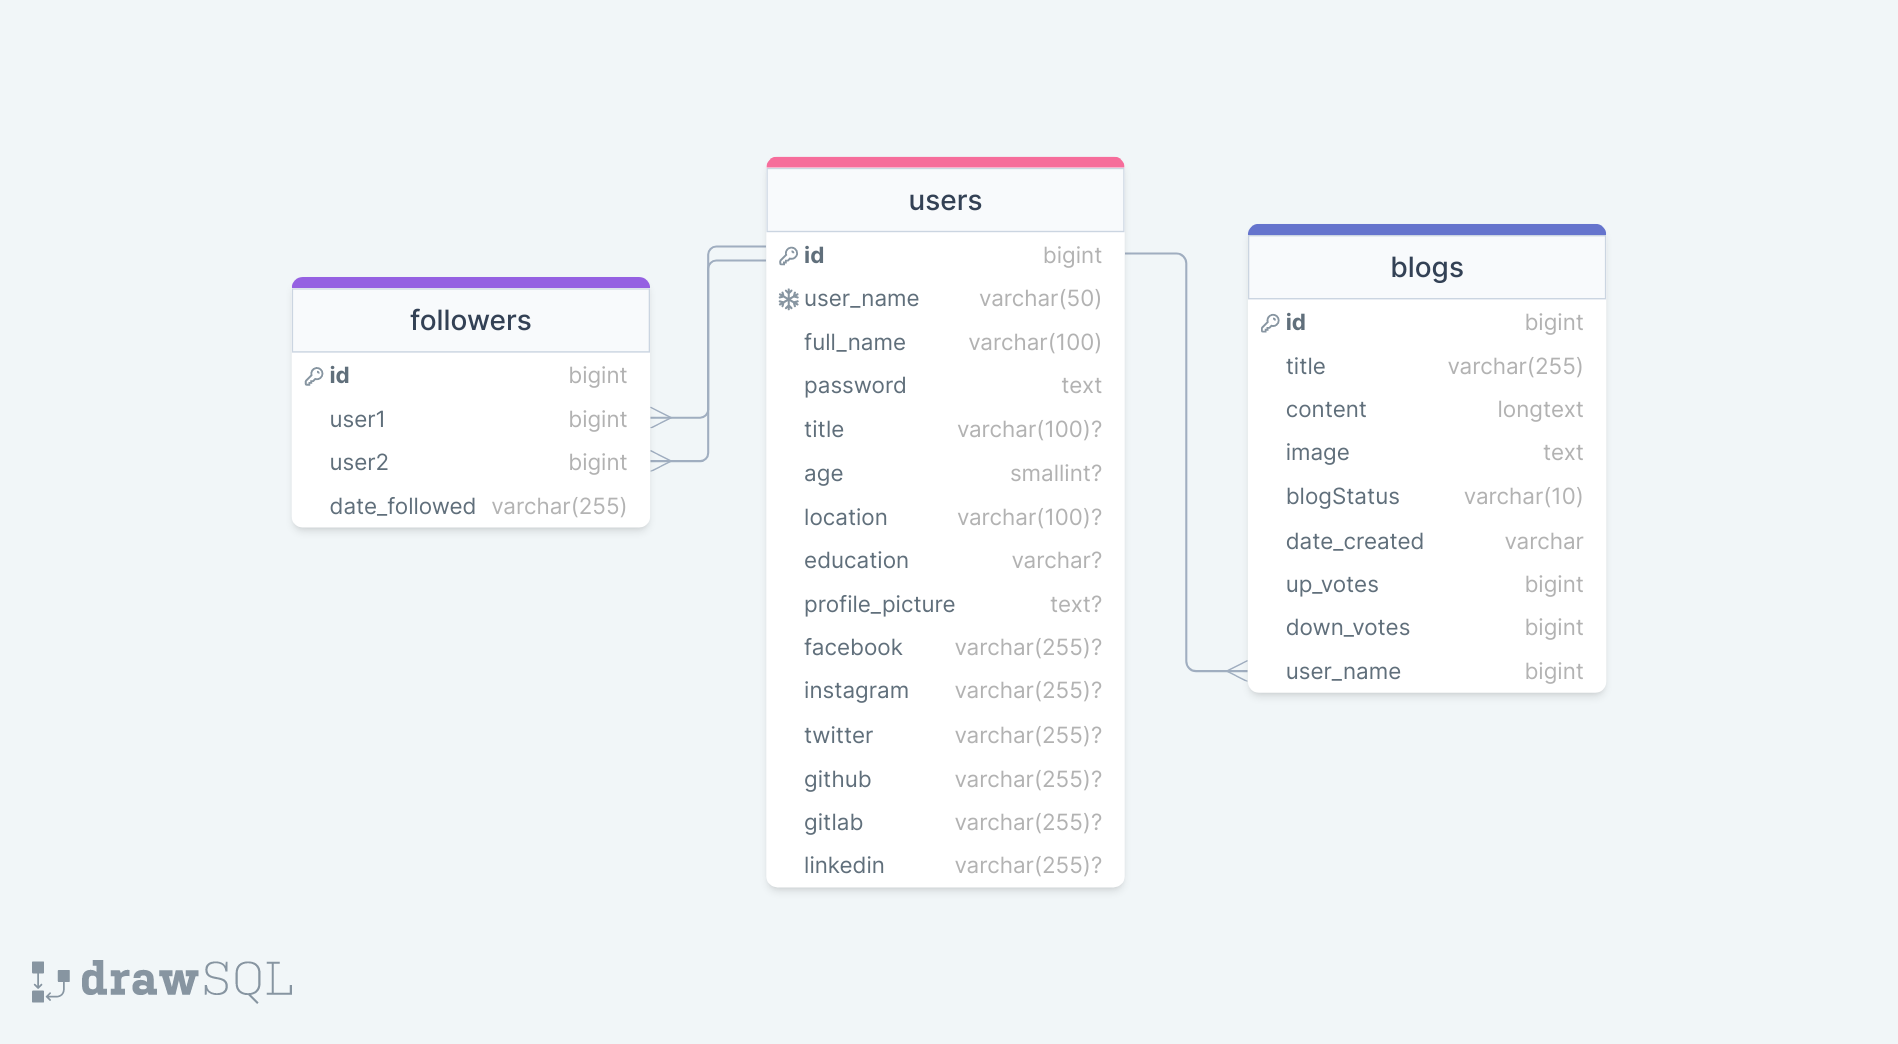
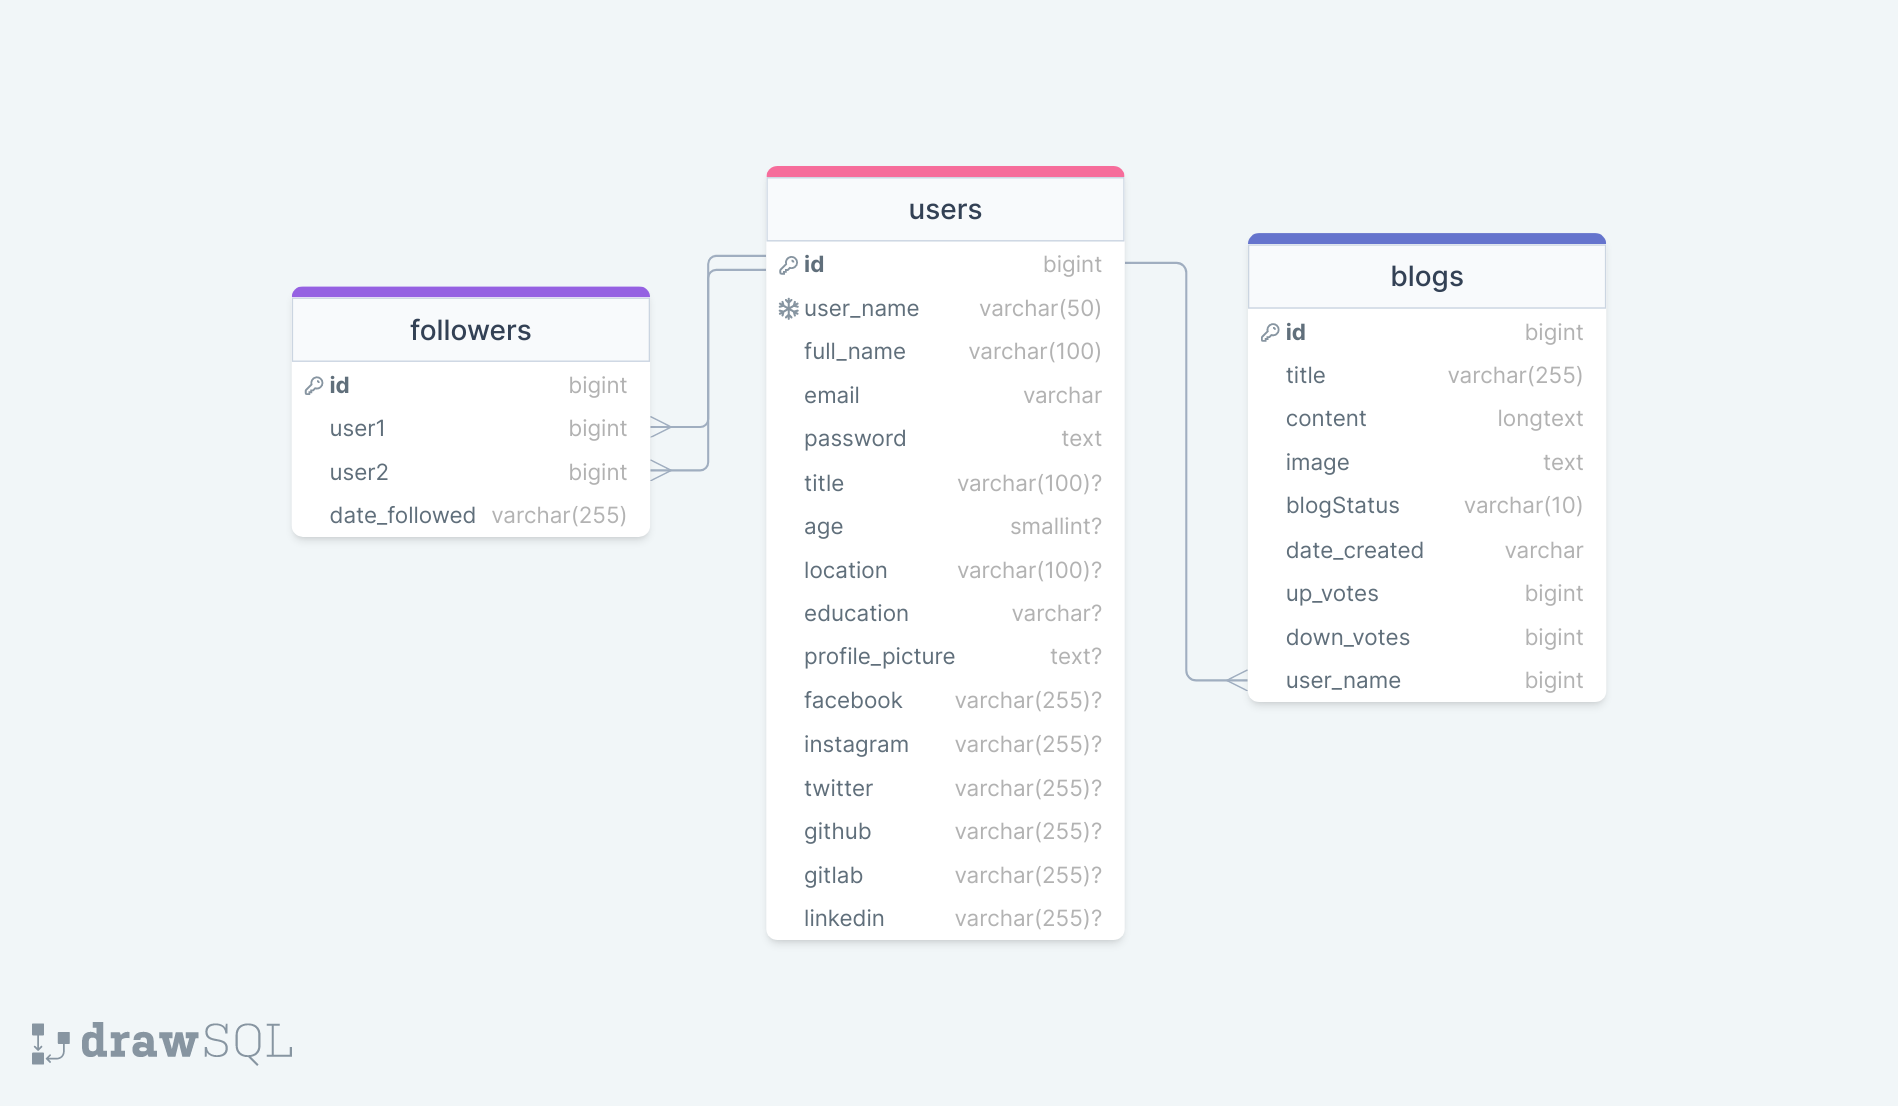
modified users controller

diff --git a/backend/src/controllers/users.ts b/backend/src/controllers/users.ts
@@ -2,6 +2,7 @@ import ErrorHandler from "../Services/ErrorHandler";
 import db from "../database/db";
 import { Encrypter } from "../Services/Bcrypt";
 import { signUpBody } from "../modals/users";
+import TimeStamp from "../Services/TimeStamp";
 
 export const loginHandler = (req: any, res: any, next: any) => {
   res.status(200).send("OK!");
@@ -13,8 +14,9 @@ export const signUpHandler = async (req: any, res: any, next: any) => {
   const fullname = body.fullname;
   const email = body.email;
   const password = body.password;
-  // console.log(fullname, username, email, password);
+  
   const hashedPassword = await Encrypter(password);
+  const timestamp = TimeStamp();
 
   try {
     const [userData] = (await db.execute(
@@ -25,8 +27,8 @@ export const signUpHandler = async (req: any, res: any, next: any) => {
       next(new ErrorHandler("User Already Exists!", 400));
     else {
       await db.execute(
-        "INSERT INTO users (fullname, username, email, password) VALUES (?,?,?,?);",
-        [fullname, username, email, hashedPassword]
+        "INSERT INTO users (full_name, user_name, email, password, date_created) VALUES (?,?,?,?,?);",
+        [fullname, username, email, hashedPassword, timestamp]
       );
       res.status(201).send("OK!");
     }

diff --git a/backend/src/Services/TimeStamp.ts b/backend/src/Services/TimeStamp.ts
@@ -1,0 +1,15 @@
+const TimeStamp = () => {
+    const currentTime = new Date();
+    const currentOffset = currentTime.getTimezoneOffset();
+    const ISTOffset = 330;
+    const ISTTime = new Date(
+      currentTime.getTime() + (ISTOffset + currentOffset) * 60000
+    );
+    const timestamp = `${ISTTime.getDate()}/${
+      ISTTime.getMonth() + 1
+    }/${ISTTime.getFullYear()} ${ISTTime.getHours()}:${ISTTime.getMinutes()}:${ISTTime.getSeconds()}:${ISTTime.getMilliseconds()}`;
+  
+    return timestamp;
+  };
+  
+  export default TimeStamp;

diff --git a/README.MD b/README.MD
@@ -20,6 +20,7 @@ CREATE TABLE `users`(
     `id` BIGINT UNSIGNED PRIMARY KEY NOT NULL AUTO_INCREMENT,
     `user_name` VARCHAR(50) NOT NULL,
     `full_name` VARCHAR(100) NOT NULL,
+    `email` VARCHAR(100) NOT NULL,
     `password` TEXT NOT NULL,
     `title` VARCHAR(100) NULL,
     `age` SMALLINT NULL,
@@ -39,10 +40,10 @@ CREATE TABLE `users`(
 
 ```sql
 CREATE TABLE followers(
-	id BIGINT UNSIGNED PRIMARY KEY AUTO_INCREMENT,
-  user1 BIGINT UNSIGNED NOT NULL,
-  user2 BIGINT UNSIGNED NOT NULL,
-  date_followed VARCHAR(100) NOT NULL,
+	`id` BIGINT UNSIGNED PRIMARY KEY AUTO_INCREMENT,
+  `user1` BIGINT UNSIGNED NOT NULL,
+  `user2` BIGINT UNSIGNED NOT NULL,
+  `date_followed` VARCHAR(100) NOT NULL,
   FOREIGN KEY (user1) REFERENCES users(id),
   FOREIGN KEY (user2) REFERENCES users(id)
 );
@@ -52,15 +53,15 @@ CREATE TABLE followers(
 
 ```sql
 CREATE TABLE blogs(
-	id BIGINT UNSIGNED PRIMARY KEY AUTO_INCREMENT,
-  title VARCHAR(100) NOT NULL,
-  content LONGTEXT NOT NULL,
-  image TEXT NOT NULL,
-  blog_status VARCHAR(10) NOT NULL,
-  date_created VARCHAR(100) NOT NULL,
-  up_votes BIGINT NOT NULL,
-  down_votes BIGINT NOT NULL,
-  user_name BIGINT UNSIGNED NOT NULL,
+	`id` BIGINT UNSIGNED PRIMARY KEY AUTO_INCREMENT,
+  `title` VARCHAR(100) NOT NULL,
+  `content` LONGTEXT NOT NULL,
+  `image` TEXT NOT NULL,
+  `blog_status` VARCHAR(10) NOT NULL,
+  `date_created` VARCHAR(100) NOT NULL,
+  `up_votes` BIGINT NOT NULL,
+  `down_votes` BIGINT NOT NULL,
+  `user_name` BIGINT UNSIGNED NOT NULL,
   FOREIGN KEY (user_name) REFERENCES users(id)
 );
 ```
